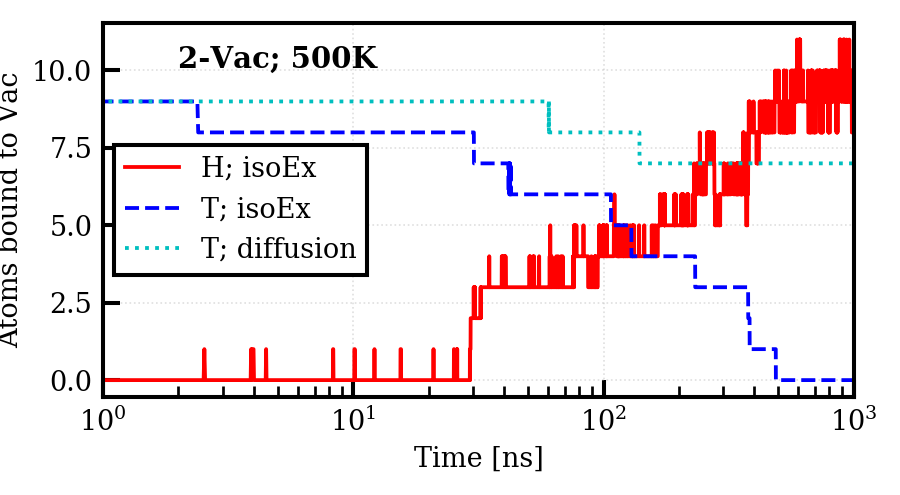
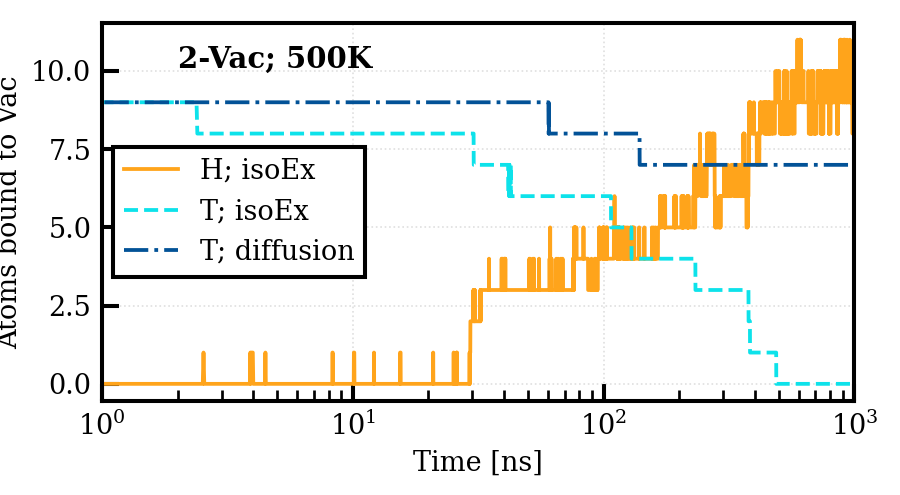
re-draw figures with new color palette

diff --git a/plotting-scripts/plotStyle.py b/plotting-scripts/plotStyle.py
@@ -51,9 +51,9 @@ H_iso_color, T_iso_color, T_diff_color = ['#ffa41b','#0de2ea','#025297']  # Blue
 #H_iso_color, T_iso_color, T_diff_color = ['#003f5c','#bb053c','#ffa41b']  # Germany
 #H_iso_color, T_iso_color, T_diff_color = ['#ff7f0e','#ff7f0e','#2ca02c']  # Matplotlib default-ish
 
-H_iso_style = {'linestyle':':', 'color':H_iso_color, 'markerfacecolor':H_iso_color, 'markeredgecolor':H_iso_color}
-T_iso_style = {'linestyle':'-', 'color':T_iso_color, 'markerfacecolor':T_iso_color, 'markeredgecolor':T_iso_color}
-T_diff_style = {'linestyle':'--', 'color':T_diff_color, 'markerfacecolor':T_diff_color, 'markeredgecolor':T_diff_color}
+H_iso_style = {'linestyle':'-', 'color':H_iso_color, 'markerfacecolor':H_iso_color, 'markeredgecolor':H_iso_color}
+T_iso_style = {'linestyle':'--', 'color':T_iso_color, 'markerfacecolor':T_iso_color, 'markeredgecolor':T_iso_color}
+T_diff_style = {'linestyle':'-.', 'color':T_diff_color, 'markerfacecolor':T_diff_color, 'markeredgecolor':T_diff_color}
 isoEx_style = {'H_iso':H_iso_style, 'T_iso':T_iso_style, 'T_diff':T_diff_style} 
 
 # Labels
